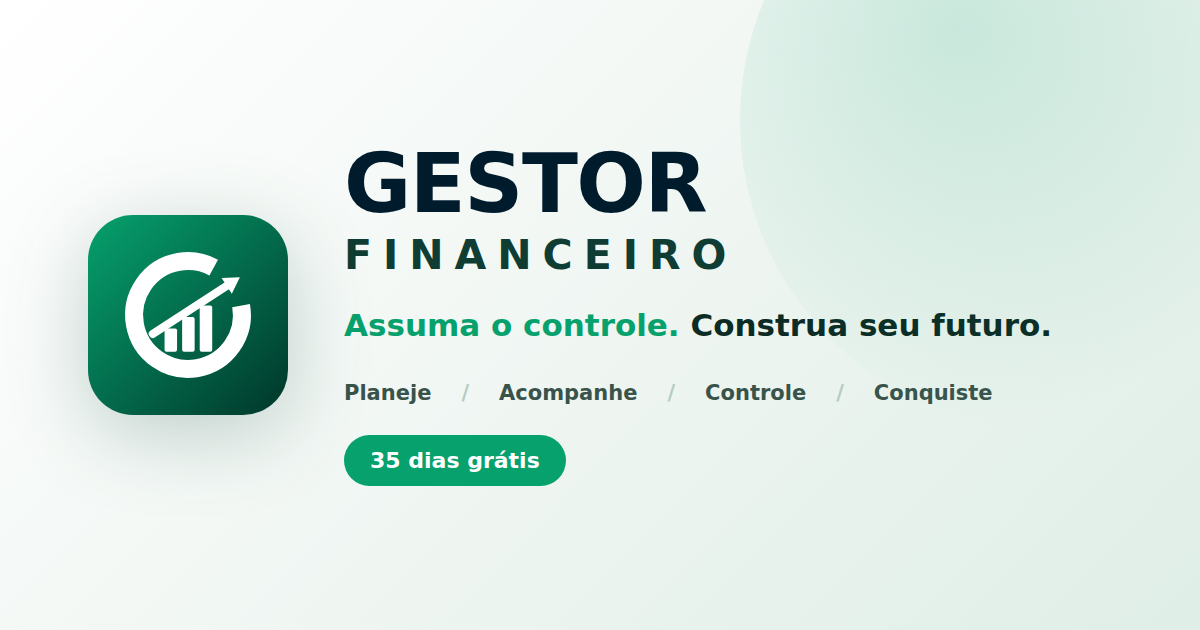
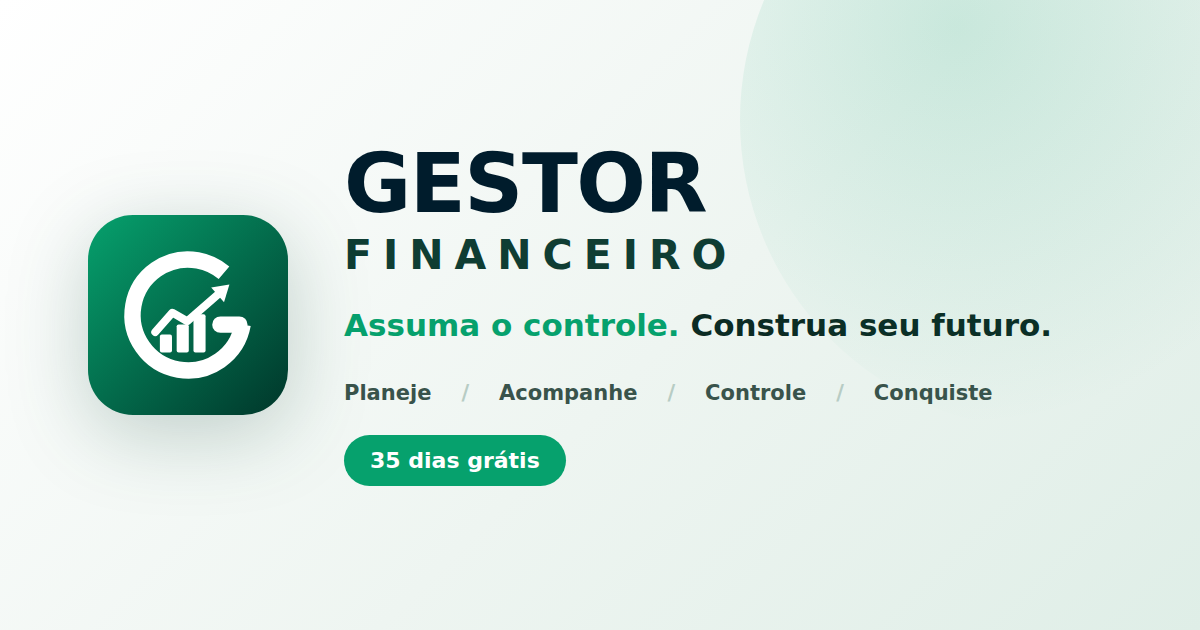
v10.30 - G completo com a haste, seta em ziguezague, splash na cor da marca e tema verde
Logo: o G ganhou a haste (era um C) e a seta virou ziguezague. Splash e tela de entrada: a palavra Gestor agora usa o verde da marca (era degrade azul/roxo), o brilho de fundo acompanha, e a assinatura virou "Assuma o controle. Construa seu futuro.". Novo tema "Marca (verde do logo)". Corrigido tambem: editar um lancamento de debito para credito criava uma linha nova em vez de atualizar (duplicava), e o caminho contrario nao limpava cartao_id.

Changed region(s): [[0.0925, 0.3921, 0.2158, 0.6032]]

diff --git a/index.html b/index.html
@@ -57,13 +57,13 @@ input,select{font-family:inherit;font-size:16px}
 .splash-stack{display:flex;flex-direction:column;align-items:center;position:relative;z-index:2}
 .splash-mark{width:min(34vw,132px);height:auto;animation:markPop .85s cubic-bezier(.2,.9,.3,1.15) both}
 .splash-glow{position:absolute;width:120vw;height:120vw;max-width:560px;max-height:560px;border-radius:50%;z-index:1;
-  background:radial-gradient(circle,rgba(72,110,235,.32) 0%,rgba(120,60,200,.16) 40%,transparent 68%);
+  background:radial-gradient(circle,rgba(6,161,109,.34) 0%,rgba(0,120,92,.17) 40%,transparent 68%);
   animation:splGlow 2.4s ease-in-out both}
 @keyframes markPop{0%{opacity:0;transform:scale(.4) translateY(14px)}65%{opacity:1}100%{opacity:1;transform:scale(1) translateY(0)}}
 @keyframes splGlow{0%{opacity:0;transform:scale(.5)}45%{opacity:1}100%{opacity:.55;transform:scale(1.05)}}
 .word-reveal{display:flex;margin-top:8px}
 .word-reveal span{font-family:var(--font);font-weight:800;letter-spacing:.5px;
-  background:linear-gradient(100deg,#59B4FF,#7C7CF0 55%,#A85CFF);
+  background:linear-gradient(100deg,#5fe7b0,#12b981 52%,#06a16d);
   -webkit-background-clip:text;background-clip:text;color:transparent;
   opacity:0;display:inline-block;transform:translateY(14px) scale(.7);
   animation:letterIn .55s cubic-bezier(.2,.9,.3,1.3) forwards;
@@ -71,13 +71,14 @@ input,select{font-family:inherit;font-size:16px}
 .splash-word span{font-size:42px}
 .brand-word span{font-size:34px}
 @keyframes letterIn{to{opacity:1;transform:translateY(0) scale(1)}}
-.splash-tag{margin-top:10px;color:#8fa0c8;font-size:12px;font-weight:700;letter-spacing:3px;text-transform:uppercase;
+.splash-tag{margin-top:12px;color:#9db3ab;font-size:14px;font-weight:600;letter-spacing:.2px;line-height:1.45;text-align:center;
   opacity:0;animation:tagIn .6s ease forwards;animation-delay:1.75s}
+.splash-tag b,.brand .tag b{color:#12b981;font-weight:700}
 @keyframes tagIn{from{opacity:0;transform:translateY(6px)}to{opacity:1;transform:translateY(0)}}
-#auth::before{content:'';position:fixed;inset:0;background:radial-gradient(90% 50% at 50% 8%, rgba(28,48,110,.35) 0%, transparent 70%);pointer-events:none}
+#auth::before{content:'';position:fixed;inset:0;background:radial-gradient(90% 50% at 50% 8%, rgba(4,90,68,.38) 0%, transparent 70%);pointer-events:none}
 .brand{display:flex;flex-direction:column;align-items:center;gap:4px;margin-bottom:22px;margin-top:-8px;position:relative}
 .brand .logo-img{width:min(30vw,116px);height:auto;display:block}
-.brand .tag{margin:0;color:#8fa0c8;font-size:12px;font-weight:600;letter-spacing:3px;text-transform:uppercase}
+.brand .tag{margin:0;color:#9db3ab;font-size:13.5px;font-weight:600;letter-spacing:.2px;line-height:1.45;text-align:center}
 .auth-card{background:var(--card);border-radius:var(--radius);box-shadow:var(--shadow);padding:24px;width:100%;max-width:380px}
 .auth-card h2{margin:0 0 4px;font-size:19px}
 .auth-card .sub{color:var(--muted);font-size:13px;margin-bottom:18px}
@@ -594,7 +595,7 @@ body.scrolling .fab{opacity:.25}
     <div class="word-reveal splash-word">
       <span style="--i:0">G</span><span style="--i:1">e</span><span style="--i:2">s</span><span style="--i:3">t</span><span style="--i:4">o</span><span style="--i:5">r</span>
     </div>
-    <div class="splash-tag">Controle Financeiro</div>
+    <div class="splash-tag"><b>Assuma o controle.</b><br>Construa seu futuro.</div>
     <div id="splashVer" style="margin-top:10px;font-size:11px;letter-spacing:1px;color:rgba(255,255,255,.38);font-weight:600"></div>
   </div>
 </div>
@@ -606,7 +607,7 @@ body.scrolling .fab{opacity:.25}
     <div class="word-reveal brand-word">
       <span style="--i:0">G</span><span style="--i:1">e</span><span style="--i:2">s</span><span style="--i:3">t</span><span style="--i:4">o</span><span style="--i:5">r</span>
     </div>
-    <p class="tag">Controle Financeiro</p>
+    <p class="tag"><b>Assuma o controle.</b><br>Construa seu futuro.</p>
     <p class="ver" id="appVer"></p>
   </div>
   <div class="auth-card">
@@ -734,7 +735,7 @@ window._splashT0=Date.now();
 const SUPABASE_URL = "https://cppuceykhffjdcmwpfpk.supabase.co";
 const SUPABASE_KEY = "sb_publishable_smlzffY0zZQ_coqc2Eo29g_-2ddMnvF";
 const VAPID_PUBLIC = "BEiff-z5h7tDk14PwaidBW0JX9ZnX1n7u57d0ZCQmQq6EkUmsq1UPUfRrzbkLoSy4BxNberxwoelYKEJ8LefFW0";
-const APP_VER = "10.29"; /* z4 */
+const APP_VER = "10.30"; /* z4 */
 try{ const _sv=document.getElementById('splashVer'); if(_sv) _sv.textContent='v'+APP_VER; }catch(e){}
 // reset único de layout: aplica o novo padrão de ordem pra todos (novos e antigos)
 try{
@@ -1738,6 +1739,7 @@ function authErr(m){$('authMsg').innerHTML='<div class="msg err">'+esc(m)+'</div
 const TEMA_DEFAULT={emerald:'#0d3b34',mint:'#1f9d8a',coral:'#e8654e',green:'#1f9d6b',red:'#d6473a',paper:'#f4f1ea',card:'#ffffff',ink:'#0c1c1a',muted:'#6f7d79',line:'#e6e1d6'};
 const TEMA_PRESETS={
   'Esmeralda (padrão)':TEMA_DEFAULT,
+  'Marca (verde do logo)':{emerald:'#04553d',mint:'#06a16d',coral:'#e8654e',green:'#06a16d',red:'#d6473a',paper:'#f1f7f4',card:'#ffffff',ink:'#04211a',muted:'#5f7a71',line:'#dde9e4'},
   'Logo (azul/roxo)':{emerald:'#1e2350',mint:'#5b8bff',coral:'#8b5cf6',green:'#22b07d',red:'#e0485a',paper:'#f2f3fb',card:'#ffffff',ink:'#161a2e',muted:'#6b7090',line:'#e3e5f2'},
   'Roxo':{emerald:'#3b1d6e',mint:'#7c3aed',coral:'#ec4899',green:'#22b07d',red:'#e0485a',paper:'#f6f3fb',card:'#ffffff',ink:'#1f1733',muted:'#6f6a86',line:'#e9e3f3'},
   'Azul oceano':{emerald:'#0b3d6e',mint:'#2563eb',coral:'#f59e0b',green:'#1f9d6b',red:'#d6473a',paper:'#eef3fa',card:'#ffffff',ink:'#0c1f33',muted:'#637084',line:'#dde6f0'},
@@ -11188,14 +11190,36 @@ async function saveLanc(id){
 
   if(window._meio==='cartao'){
     const cartaoId=$('lCartao')?$('lCartao').value:null;
-    if(!cartaoId){toast('Selecione o cartão');return;}
+    if(!cartaoId){window._salvandoLanc=false;toast('Selecione o cartão');return;}
     const pvRaw=($('lAvista')&&$('lAvista').checked)?'1':($('lParcelas')?$('lParcelas').value:'');
-    if(!pvRaw){toast('Escolha as parcelas (à vista, parcelado ou recorrente)');return;}
+    if(!pvRaw){window._salvandoLanc=false;toast('Escolha as parcelas (à vista, parcelado ou recorrente)');return;}
     const rec = pvRaw==='rec';
     const n = rec?24:(pvRaw==='custom'?parcelasEfetivas():(parseInt(pvRaw)||1));
-    if(!rec && (!(n>=1))){toast('Número de parcelas inválido');return;}
+    if(!rec && (!(n>=1))){window._salvandoLanc=false;toast('Número de parcelas inválido');return;}
     const cartao=cartaoById(cartaoId);
-    if(id){const old=DATA.lancamentos.find(l=>l.id===id); if(old&&old.grupo_id){await dbDelete('lancamentos','grupo_id',old.grupo_id);} else {await dbDelete('lancamentos','id',id);} }
+    if(id){
+      const old=DATA.lancamentos.find(l=>l.id===id);
+      // 1 linha continua sendo 1 linha (à vista, sem parcelamento): ATUALIZA no lugar.
+      // Antes isso apagava e recriava — se o apagar falhasse, a compra ficava DUPLICADA.
+      if(!rec && n===1 && !(old&&old.grupo_id)){
+        const _comp=calcCompetencia(data,cartao.dia_fechamento);
+        const _patch={tipo:'despesa',descricao:desc,valor,data,status:'pago',
+          cartao_id:cartaoId, conta_id:null, conta_destino_id:null,
+          categoria_id:window._catSel||null, competencia:ymd(_comp),
+          grupo_id:null, parcela:null, parcelas:null};
+        const ru=await dbUpdate('lancamentos',_patch,'id',id);
+        if(ru && ru.ok===false){ window._salvandoLanc=false; toast('Erro ao atualizar: '+((ru.error&&ru.error.message)||'tente de novo')); return; }
+        window._salvandoLanc=false; closeSheet(); vibra();
+        if(!(ru&&ru.queued)){ try{ await loadAll(); }catch(e){} }
+        render(); toast(ru&&ru.queued?'Atualizado offline — sincroniza depois':'Compra atualizada');
+        return;
+      }
+      // vira VÁRIAS linhas (parcelado/recorrente): aí precisa apagar e recriar —
+      // mas só segue se o apagar deu certo, senão duplicava.
+      const rd = (old&&old.grupo_id) ? await dbDelete('lancamentos','grupo_id',old.grupo_id)
+                                     : await dbDelete('lancamentos','id',id);
+      if(rd && rd.ok===false){ window._salvandoLanc=false; toast('Não consegui apagar o lançamento antigo — nada foi alterado'); return; }
+    }
     const grupo=uuid();
     const baseComp=calcCompetencia(data,cartao.dia_fechamento);
     const rows=[];
@@ -11221,7 +11245,8 @@ async function saveLanc(id){
       }
     }
     const r=await insertRows(rows);
-    if(!r.ok) return;
+    if(!r.ok){ window._salvandoLanc=false; return; }
+    window._salvandoLanc=false;
     closeSheet();
     vibra();
     // otimista: aparece na hora; o servidor sincroniza em segundo plano
@@ -11234,7 +11259,7 @@ async function saveLanc(id){
 
   // conta normal
   const contaId=$('lConta').value;
-  if(!contaId){toast('Selecione a conta');return;}
+  if(!contaId){window._salvandoLanc=false;toast('Selecione a conta');return;}
   const recVal = $('lRecorr') ? $('lRecorr').value : '0';
   const recorr = recVal==='fixo' ? 24 : (recVal==='custom' ? (Math.min(120,Math.max(0,parseInt($('lRecorrN')?$('lRecorrN').value:'')||0))) : (parseInt(recVal)||0));
   if(!id && recorr>1){
@@ -11256,6 +11281,23 @@ async function saveLanc(id){
     conta_id:contaId,categoria_id:window._catSel||null};
   // se é edição de uma despesa/receita normal (não cartão), oferece aplicar nos próximos meses
   const orig = id ? DATA.lancamentos.find(l=>l.id===id) : null;
+  // saiu do CARTÃO para a CONTA: sem limpar cartao_id/competencia a compra continuava
+  // aparecendo na fatura E no débito — parecia duplicada
+  if(id && orig && orig.cartao_id){
+    if(orig.grupo_id){
+      if(!confirm('Essa compra está parcelada no cartão.\n\nMudando para débito, as outras parcelas somem e fica um lançamento único. Continuar?')){ window._salvandoLanc=false; return; }
+      const rd=await dbDelete('lancamentos','grupo_id',orig.grupo_id);
+      if(rd && rd.ok===false){ window._salvandoLanc=false; toast('Não consegui apagar as parcelas antigas — nada foi alterado'); return; }
+      row.cartao_id=null; row.competencia=null; row.grupo_id=null; row.parcela=null; row.parcelas=null;
+      const rn=await insertRows([row]);
+      if(!rn.ok){ window._salvandoLanc=false; return; }
+      window._salvandoLanc=false; closeSheet(); vibra();
+      if(!rn.queued){ try{ await loadAll(); }catch(e){} }
+      render(); toast('Virou lançamento único no débito');
+      return;
+    }
+    row.cartao_id=null; row.competencia=null; row.grupo_id=null; row.parcela=null; row.parcelas=null;
+  }
   if(id && orig && orig.tipo!=='transferencia' && !orig.cartao_id && !window._escopoEdicao && precisaPerguntarEscopo(row,orig)){
     perguntarEscopoEdicao(id, row, orig);
     return;

diff --git a/sw.js b/sw.js
@@ -1,5 +1,5 @@
 // Gestor Soluções · Service Worker (offline shell + push)
-const CACHE = 'gf-shell-v327';
+const CACHE = 'gf-shell-v328';
 const CORE = [
   './', 'index.html', 'manifest.json',
   'icon-192.png', 'icon-512.png', 'apple-touch-icon.png',
